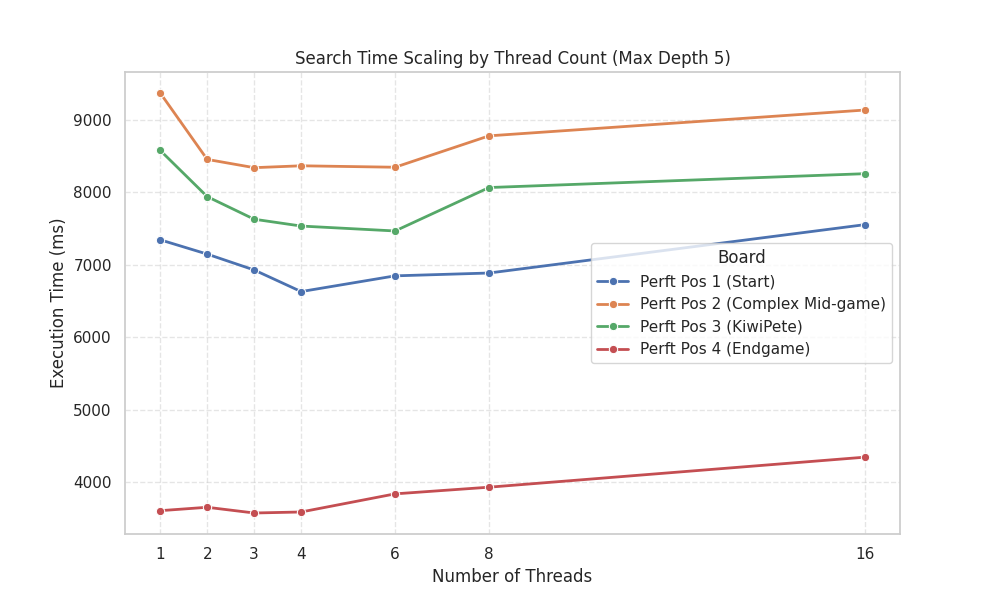
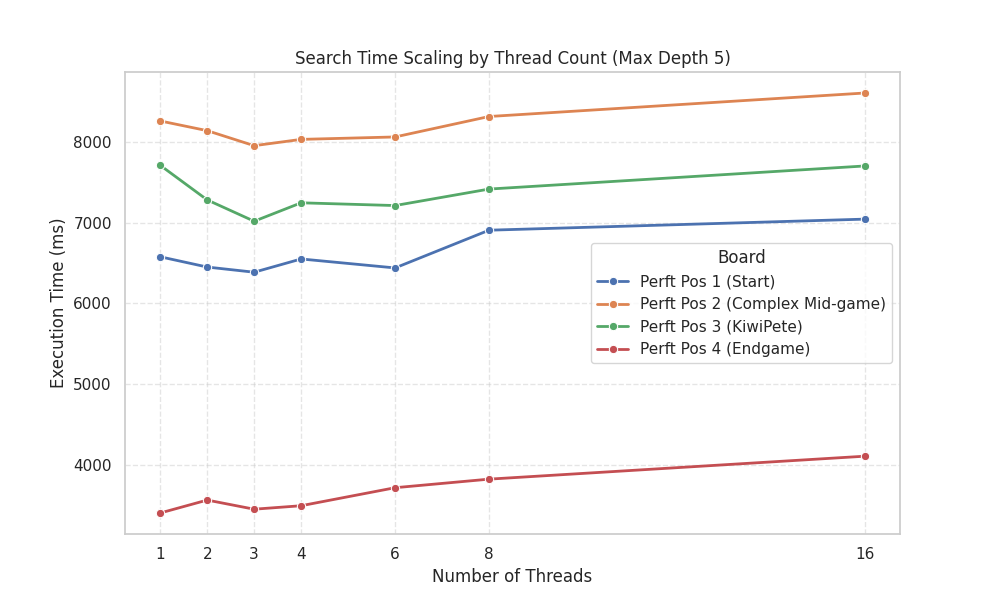
Update results after a few bug-fixes

diff --git a/_posts/2026-05-20-quackmate.md b/_posts/2026-05-20-quackmate.md
@@ -1313,18 +1313,18 @@ To anchor the SQL results in a clear frame of reference, each position includes:
 
 | Config | Move | Score | Nodes | Time (ms) | Peak RSS (MB) |
 |---|---|---|---|---|---|
-| Recursive (Exhaustive) | b1c3 | -10 | 206604 | 5163 | 692.8 |
-| ID (Exhaustive) | b1c3 | -10 | 216365 | 4715 | 1229.8 |
-| BPVS (ID + AB + LMP + Batches) | g1f3 | 0 | 57698 | 2861 | 621.3 |
-| + MVVLVA | g1f3 | 0 | 57698 | 2868 | 615.1 |
-| + TT | g1f3 | 0 | 52514 | 2717 | 591.1 |
-| + PST | b1c3 | -10 | 29039 | 2379 | 525.9 |
-| + Killers | b1c3 | -10 | 29038 | 2384 | 530.8 |
-| + History | b1c3 | -10 | 29038 | 2409 | 528.6 |
-| + RFP | b1c3 | -10 | 29038 | 2427 | 524.2 |
-| + FFP | b1c3 | -10 | 20545 | 2293 | 492.7 |
-| + LMR | b1c3 | -10 | 20273 | 2233 | 498.0 |
-| JS DFS (Reference) | b1c3 | -10 | 1750 | 119 | 235.4 |
+| Recursive (Exhaustive) | b1c3 | -10 | 206604 | 4560 | 689.1 |
+| ID (Exhaustive) | b1c3 | -10 | 216365 | 4375 | 1232.3 |
+| BPVS (ID + AB + LMP + Batches) | b1c3 | -10 | 56971 | 2688 | 637.6 |
+| + MVVLVA | b1c3 | -10 | 56971 | 2692 | 647.8 |
+| + TT | g1f3 | 0 | 107049 | 3243 | 868.8 |
+| + PST | b1c3 | -10 | 29039 | 2281 | 528.2 |
+| + Killers | b1c3 | -10 | 29038 | 2225 | 531.1 |
+| + History | b1c3 | -10 | 29038 | 2250 | 531.8 |
+| + RFP | b1c3 | -10 | 29038 | 2302 | 539.6 |
+| + FFP | b1c3 | -10 | 20545 | 2292 | 498.4 |
+| + LMR | b1c3 | -10 | 20273 | 2097 | 496.8 |
+| JS DFS (Reference) | b1c3 | -10 | 1750 | 114 | 237.0 |
 
 ### Board 2: Complex Mid-game
 <small><code>r4rk1/1pp1qppp/p1np1n2/2b1p1B1/2B1P1b1/P1NP1N2/1PP1QPPP/R4RK1 w - - 0 10</code></small>
@@ -1333,18 +1333,18 @@ To anchor the SQL results in a clear frame of reference, each position includes:
 
 | Config | Move | Score | Nodes | Time (ms) | Peak RSS (MB) |
 |---|---|---|---|---|---|
-| Recursive (Exhaustive) | c3d5 | -170 | 3984805 | 84378 | 9743.8 |
-| ID (Exhaustive) | c3d5 | -170 | 4078946 | 48067 | 15051.3 |
-| BPVS (ID + AB + LMP + Batches) | c3d5 | -170 | 98530 | 3878 | 1843.1 |
-| + MVVLVA | c3d5 | -170 | 26529 | 2539 | 1530.5 |
-| + TT | c3d5 | -170 | 25460 | 2508 | 1530.2 |
-| + PST | c3d5 | -170 | 27987 | 2648 | 1553.2 |
-| + Killers | c3d5 | -170 | 27987 | 2605 | 1558.9 |
-| + History | c3d5 | -170 | 27987 | 2801 | 1556.2 |
-| + RFP | c3d5 | -170 | 19364 | 2658 | 1543.9 |
-| + FFP | c3d5 | -170 | 15977 | 2592 | 1501.5 |
-| + LMR | c3d5 | -170 | 34269 | 2954 | 1628.1 |
-| JS DFS (Reference) | c3d5 | -170 | 1476 | 103 | 1261.5 |
+| Recursive (Exhaustive) | c3d5 | -170 | 3984805 | 71177 | 9732.1 |
+| ID (Exhaustive) | c3d5 | -170 | 4078946 | 43876 | 14814.6 |
+| BPVS (ID + AB + LMP + Batches) | c3d5 | -170 | 97733 | 3652 | 1840.7 |
+| + MVVLVA | c3d5 | -170 | 26547 | 2338 | 1500.4 |
+| + TT | c3d5 | -170 | 25500 | 2386 | 1501.6 |
+| + PST | c3d5 | -170 | 27987 | 2479 | 1521.2 |
+| + Killers | c3d5 | -170 | 27987 | 2441 | 1548.1 |
+| + History | c3d5 | -170 | 27987 | 2461 | 1537.1 |
+| + RFP | c3d5 | -170 | 19364 | 2308 | 1497.5 |
+| + FFP | c3d5 | -170 | 15977 | 2460 | 1478.3 |
+| + LMR | c3d5 | -170 | 34269 | 2613 | 1611.1 |
+| JS DFS (Reference) | c3d5 | -170 | 1476 | 91 | 1242.9 |
 
 ### Board 3: "KiwiPete" (Highly Tactical)
 <small><code>r3k2r/p1ppqpb1/bn2pnp1/3PN3/1p2P3/2N2Q1p/PPPBBPPP/R3K2R w KQkq - 0 1</code></small>
@@ -1353,18 +1353,18 @@ To anchor the SQL results in a clear frame of reference, each position includes:
 
 | Config | Move | Score | Nodes | Time (ms) | Peak RSS (MB) |
 |---|---|---|---|---|---|
-| Recursive (Exhaustive) | e2a6 | 65 | 4002708 | 91310 | 10021.5 |
-| ID (Exhaustive) | e2a6 | 65 | 4100812 | 54381 | 13451.3 |
-| BPVS (ID + AB + LMP + Batches) | e2a6 | 65 | 91564 | 3785 | 1615.0 |
-| + MVVLVA | e2a6 | 65 | 25460 | 2528 | 1310.0 |
-| + TT | e2a6 | 65 | 26102 | 2465 | 1319.8 |
-| + PST | e2a6 | 65 | 26082 | 2528 | 1315.6 |
-| + Killers | e2a6 | 65 | 26085 | 2537 | 1324.9 |
-| + History | e2a6 | 65 | 26083 | 2529 | 1321.1 |
-| + RFP | e2a6 | 65 | 15480 | 2401 | 1273.7 |
-| + FFP | e2a6 | 65 | 13864 | 2418 | 1285.3 |
-| + LMR | e2a6 | 65 | 13864 | 2368 | 1279.3 |
-| JS DFS (Reference) | e2a6 | 75 | 2195 | 125 | 1051.6 |
+| Recursive (Exhaustive) | e2a6 | 65 | 4002708 | 78630 | 10017.5 |
+| ID (Exhaustive) | e2a6 | 65 | 4100812 | 49817 | 15237.9 |
+| BPVS (ID + AB + LMP + Batches) | e2a6 | 65 | 105322 | 3969 | 1647.2 |
+| + MVVLVA | e2a6 | 65 | 25155 | 2393 | 1281.2 |
+| + TT | e2a6 | 65 | 26093 | 2410 | 1291.1 |
+| + PST | e2a6 | 65 | 26084 | 2421 | 1298.3 |
+| + Killers | e2a6 | 65 | 26085 | 2363 | 1292.0 |
+| + History | e2a6 | 65 | 26083 | 2391 | 1301.9 |
+| + RFP | e2a6 | 65 | 15480 | 2262 | 1250.4 |
+| + FFP | e2a6 | 65 | 13864 | 2207 | 1253.6 |
+| + LMR | e2a6 | 65 | 13864 | 2102 | 1254.7 |
+| JS DFS (Reference) | e2a6 | 75 | 2195 | 112 | 1042.6 |
 
 ### Board 4: Endgame
 <small><code>8/2p5/3p4/KP5r/1R3p1k/8/4P1P1/8 w - - 0 1</code></small>
@@ -1373,18 +1373,18 @@ To anchor the SQL results in a clear frame of reference, each position includes:
 
 | Config | Move | Score | Nodes | Time (ms) | Peak RSS (MB) |
 |---|---|---|---|---|---|
-| Recursive (Exhaustive) | b4f4 | 10 | 46103 | 1448 | 1200.5 |
-| ID (Exhaustive) | b4f4 | 10 | 49336 | 2952 | 1438.6 |
-| BPVS (ID + AB + LMP + Batches) | b4f4 | 10 | 9933 | 1995 | 1261.7 |
-| + MVVLVA | b4f4 | 10 | 12359 | 2069 | 1274.8 |
-| + TT | b4f4 | 10 | 8557 | 2101 | 1280.7 |
-| + PST | b4f4 | 10 | 7609 | 2141 | 1273.9 |
-| + Killers | b4f4 | 10 | 6042 | 2058 | 1265.8 |
-| + History | b4f4 | 10 | 6042 | 2176 | 1253.8 |
-| + RFP | b4f4 | 10 | 6042 | 2092 | 1258.1 |
-| + FFP | b4f4 | 10 | 5589 | 2336 | 1268.0 |
-| + LMR | b4f4 | 10 | 5589 | 2114 | 1262.8 |
-| JS DFS (Reference) | b4f4 | 10 | 945 | 34 | 1049.6 |
+| Recursive (Exhaustive) | b4f4 | 10 | 46103 | 1208 | 1197.5 |
+| ID (Exhaustive) | b4f4 | 10 | 49336 | 2544 | 1412.7 |
+| BPVS (ID + AB + LMP + Batches) | b4f4 | 10 | 16092 | 2064 | 1290.6 |
+| + MVVLVA | b4f4 | 10 | 14883 | 2142 | 1266.9 |
+| + TT | b4f4 | 10 | 9403 | 2049 | 1260.9 |
+| + PST | b4f4 | 10 | 7609 | 1950 | 1247.9 |
+| + Killers | b4f4 | 10 | 6042 | 1867 | 1244.0 |
+| + History | b4f4 | 10 | 6042 | 1881 | 1244.1 |
+| + RFP | b4f4 | 10 | 6042 | 1885 | 1226.0 |
+| + FFP | b4f4 | 10 | 5589 | 1966 | 1235.0 |
+| + LMR | b4f4 | 10 | 5589 | 1859 | 1229.2 |
+| JS DFS (Reference) | b4f4 | 10 | 930 | 30 | 1036.4 |
 
 
 ### Quiescence Search vs. Depth +1 Comparison
@@ -1400,14 +1400,14 @@ To resolve leaf-node tactical instability (the Horizon Effect) without drowning 
 
 | Config | Move | Score | Nodes | Time (ms) | Peak RSS (MB) |
 |---|---|---|---|---|---|
-| BPVS + LMR (4 + QS=0) | b1c3 | -10 | 20273 | 2384 | 1318.8 |
-| BPVS + LMR (4 + QS=1) | d2d4 | 0 | 26677 | 3895 | 1701.3 |
-| BPVS + LMR (4 + QS=2) | d2d4 | 0 | 33180 | 4572 | 1794.7 |
-| BPVS + LMR (5 + QS=0) | d2d4 | 110 | 251762 | 7280 | 2199.5 |
-| JS DFS (4 + QS=0) | b1c3 | -10 | 1750 | 127 | 1067.1 |
-| JS DFS (4 + QS=1) | d2d4 | 0 | 2220 | 191 | 1069.0 |
-| JS DFS (4 + QS=2) | d2d4 | 0 | 2314 | 206 | 1070.1 |
-| JS DFS (5 + QS=0) | b1c3 | 110 | 3801 | 227 | 1070.3 |
+| BPVS + LMR (4 + QS=0) | b1c3 | -10 | 20273 | 2099 | 1308.2 |
+| BPVS + LMR (4 + QS=1) | d2d4 | 0 | 18211 | 2492 | 1413.5 |
+| BPVS + LMR (4 + QS=2) | d2d4 | 0 | 20393 | 2736 | 1461.4 |
+| BPVS + LMR (5 + QS=0) | b1c3 | 110 | 251762 | 6424 | 2336.9 |
+| JS DFS (4 + QS=0) | b1c3 | -10 | 1750 | 109 | 1054.9 |
+| JS DFS (4 + QS=1) | d2d4 | 0 | 2220 | 156 | 1055.9 |
+| JS DFS (4 + QS=2) | d2d4 | 0 | 2314 | 175 | 1058.7 |
+| JS DFS (5 + QS=0) | b1c3 | 110 | 3801 | 197 | 1058.7 |
 | Stockfish 18 (5 + QS=∞) | e2e4 | 29 | 541 | 1 | 421.8 |
 
 ### Board 2: Complex Mid-game
@@ -1417,14 +1417,14 @@ To resolve leaf-node tactical instability (the Horizon Effect) without drowning 
 
 | Config | Move | Score | Nodes | Time (ms) | Peak RSS (MB) |
 |---|---|---|---|---|---|
-| BPVS + LMR (4 + QS=0) | c3d5 | -170 | 33632 | 2895 | 1689.2 |
-| BPVS + LMR (4 + QS=1) | g5f6 | 0 | 107131 | 6166 | 2315.6 |
-| BPVS + LMR (4 + QS=2) | c4f7 | 100 | 199095 | 8971 | 3074.4 |
-| BPVS + LMR (5 + QS=0) | c3d5 | 410 | 275383 | 8937 | 2790.5 |
-| JS DFS (4 + QS=0) | c3d5 | -170 | 1476 | 103 | 1341.8 |
-| JS DFS (4 + QS=1) | e2d2 | 255 | 9913 | 656 | 1341.8 |
-| JS DFS (4 + QS=2) | c3d5 | 85 | 5424 | 516 | 1342.0 |
-| JS DFS (5 + QS=0) | c3d5 | 410 | 4829 | 241 | 1342.0 |
+| BPVS + LMR (4 + QS=0) | c3d5 | -170 | 34269 | 2638 | 1418.9 |
+| BPVS + LMR (4 + QS=1) | g5f6 | 65 | 79975 | 4401 | 1854.4 |
+| BPVS + LMR (4 + QS=2) | c3d5 | 85 | 120887 | 6222 | 2037.5 |
+| BPVS + LMR (5 + QS=0) | c3d5 | 410 | 274022 | 8293 | 2534.8 |
+| JS DFS (4 + QS=0) | c3d5 | -170 | 1476 | 102 | 1061.7 |
+| JS DFS (4 + QS=1) | e2d2 | 255 | 9913 | 634 | 1064.8 |
+| JS DFS (4 + QS=2) | c3d5 | 85 | 5424 | 464 | 1065.0 |
+| JS DFS (5 + QS=0) | c3d5 | 410 | 4829 | 220 | 1065.8 |
 | Stockfish 18 (5 + QS=∞) | c3d5 | 178 | 385 | 1 | 422.2 |
 
 ### Board 3: "KiwiPete" (Highly Tactical)
@@ -1434,14 +1434,14 @@ To resolve leaf-node tactical instability (the Horizon Effect) without drowning 
 
 | Config | Move | Score | Nodes | Time (ms) | Peak RSS (MB) |
 |---|---|---|---|---|---|
-| BPVS + LMR (4 + QS=0) | e2a6 | 65 | 13864 | 2288 | 1281.0 |
-| BPVS + LMR (4 + QS=1) | d2g5 | 230 | 72274 | 5087 | 1687.6 |
-| BPVS + LMR (4 + QS=2) | e2a6 | 70 | 380877 | 13925 | 3544.4 |
-| BPVS + LMR (5 + QS=0) | e2a6 | 445 | 267792 | 8854 | 2323.4 |
-| JS DFS (4 + QS=0) | e2a6 | 75 | 2195 | 123 | 1063.0 |
-| JS DFS (4 + QS=1) | e2a6 | 270 | 6826 | 515 | 1064.5 |
-| JS DFS (4 + QS=2) | e2a6 | 75 | 13004 | 1204 | 1064.5 |
-| JS DFS (5 + QS=0) | e2a6 | 375 | 7322 | 375 | 1064.7 |
+| BPVS + LMR (4 + QS=0) | e2a6 | 65 | 13864 | 2110 | 1259.3 |
+| BPVS + LMR (4 + QS=1) | e2a6 | 175 | 65328 | 4125 | 1679.4 |
+| BPVS + LMR (4 + QS=2) | e2a6 | 70 | 198144 | 7597 | 2348.3 |
+| BPVS + LMR (5 + QS=0) | e2a6 | 445 | 267792 | 7780 | 2313.8 |
+| JS DFS (4 + QS=0) | e2a6 | 75 | 2195 | 104 | 1060.8 |
+| JS DFS (4 + QS=1) | e2a6 | 270 | 6826 | 451 | 1061.4 |
+| JS DFS (4 + QS=2) | e2a6 | 75 | 13004 | 1083 | 1061.7 |
+| JS DFS (5 + QS=0) | e2a6 | 375 | 7322 | 337 | 1061.7 |
 | Stockfish 18 (5 + QS=∞) | e2a6 | -128 | 381 | 1 | 422.1 |
 
 ### Board 4: Endgame
@@ -1451,14 +1451,14 @@ To resolve leaf-node tactical instability (the Horizon Effect) without drowning 
 
 | Config | Move | Score | Nodes | Time (ms) | Peak RSS (MB) |
 |---|---|---|---|---|---|
-| BPVS + LMR (4 + QS=0) | b4f4 | 10 | 5589 | 2047 | 1245.1 |
-| BPVS + LMR (4 + QS=1) | e2e3 | 10 | 40343 | 4101 | 1715.5 |
-| BPVS + LMR (4 + QS=2) | e2e3 | 10 | 32919 | 4158 | 1647.5 |
-| BPVS + LMR (5 + QS=0) | b4f4 | 110 | 40378 | 3508 | 1431.1 |
-| JS DFS (4 + QS=0) | b4f4 | 10 | 945 | 33 | 1063.6 |
-| JS DFS (4 + QS=1) | e2e4 | 75 | 2608 | 76 | 1065.2 |
-| JS DFS (4 + QS=2) | b4f4 | 10 | 3011 | 102 | 1066.4 |
-| JS DFS (5 + QS=0) | b4f4 | 110 | 2827 | 79 | 1066.4 |
+| BPVS + LMR (4 + QS=0) | b4f4 | 10 | 5589 | 1880 | 1222.9 |
+| BPVS + LMR (4 + QS=1) | b4f4 | 10 | 31524 | 3341 | 1595.9 |
+| BPVS + LMR (4 + QS=2) | b4f4 | 10 | 29945 | 3659 | 1603.2 |
+| BPVS + LMR (5 + QS=0) | b4f4 | 110 | 40378 | 3433 | 1427.2 |
+| JS DFS (4 + QS=0) | b4f4 | 10 | 930 | 30 | 1051.3 |
+| JS DFS (4 + QS=1) | e2e4 | 75 | 2477 | 75 | 1056.2 |
+| JS DFS (4 + QS=2) | b4f4 | 10 | 2948 | 111 | 1056.2 |
+| JS DFS (5 + QS=0) | b4f4 | 110 | 2702 | 73 | 1056.2 |
 | Stockfish 18 (5 + QS=∞) | b4f4 | 97 | 246 | 1 | 422.2 |
 
 
@@ -1476,7 +1476,7 @@ However, correctness comes at a price known as the **"algorithmic gap."** Becaus
 
 ### Pruning Benefits vs. Join Overhead
 
-At Depth 4, adding advanced move-ordering and selective pruning heuristics reduces the node count but does not always save execution time due to the database overhead. For example, on Board 2 at Depth 4, stopping at `+ MVVLVA` evaluates **26.5K nodes** in **2.5 seconds**, while enabling the full stack through `+ LMR` evaluates **34.3K nodes** but takes **2.9 seconds**. This is because every heuristic requires an explicit `LEFT JOIN` or dynamic query scan in SQL, and at shallow depths, query planning and join execution overhead outweighs the time saved by pruning.
+At Depth 4, adding advanced move-ordering and selective pruning heuristics reduces the node count but does not always save execution time due to the database overhead. For example, on Board 2 at Depth 4, stopping at `+ MVVLVA` evaluates **26.5K nodes** in **2.3 seconds**, while enabling the full stack through `+ LMR` evaluates **34.3K nodes** but takes **2.6 seconds**. This is because every heuristic requires an explicit `LEFT JOIN` or dynamic query scan in SQL, and at shallow depths, query planning and join execution overhead outweighs the time saved by pruning.
 
 At Depth 5, however, we reach an algorithmic inflection point. But our experiments show that this payoff applies **only to pruning heuristics (RFP, FFP, LMR), not to move ordering (PST, Killers, History)**. Why?
 
@@ -1503,9 +1503,9 @@ To analyze parallel scalability, we test the multi-threaded execution profile at
 
 <img src="/assets/images/quackmate_threads.png" alt="Plot showing search time scaling by thread count across different board positions" width="700" style="display: block; margin: 2rem auto;"/>
 
-The results show a parallel scaling limit, with the optimal performance consistently landing at **3-4 threads**. On dense, tactical positions, DuckDB achieves a modest speedup: on Board 2, search time drops from **9.1 seconds** on 1 thread to **8.3 seconds** on 3 threads (**8.8% speedup**), while KiwiPete (Board 3) drops from **8.6 seconds** to **7.5 seconds** on 4 threads (**12.2% speedup**). 
+The results show a parallel scaling limit, with the optimal performance consistently landing at **3 threads**. On dense, tactical positions, DuckDB achieves a modest speedup: on Board 2, search time drops from **8.3 seconds** on 1 thread to **8.0 seconds** on 3 threads (**3.7% speedup**), while KiwiPete (Board 3) drops from **7.7 seconds** to **7.0 seconds** on 3 threads (**9.0% speedup**).
 
-Scaling beyond this to 16 threads causes search times to degrade back to **9.1 seconds** on Board 2 and **4.3 seconds** on Board 4. Because alpha-beta/PVS search traversal is inherently sequential, increasing concurrency beyond a few threads primarily increases database thread coordination overhead and lock contention rather than throughput.
+Scaling beyond this to 16 threads causes search times to degrade back to **8.6 seconds** on Board 2 and **4.1 seconds** on Board 4. Because alpha-beta/PVS search traversal is inherently sequential, increasing concurrency beyond a few threads primarily increases database thread coordination overhead and lock contention rather than throughput.
 
 #### Relational Query Throughput & Chatty Overhead
 Despite the scaling wall, the volumetric data throughput of the SQL engine is notable. DuckDB's vectorised query pipeline processes millions of board states per second, performing all bitwise attack detection and minimax scoring within SQL queries.
@@ -1536,36 +1536,36 @@ Even in-memory, DuckDB is a fully ACID-compliant database. Every `INSERT` and `D
 
 ### Search Dynamics and Quiescence Search Efficiency
 
-The addition of **Quiescence Search (QS)** demonstrates the classic computer chess trade-off: **tactical safety vs. search depth**. However, in a relational database engine, this trade-off behaves in highly counter-intuitive ways, revealing the steep relational penalty of selective search extensions.
+The addition of **Quiescence Search (QS)** demonstrates the classic computer chess trade-off: **tactical safety vs. search depth**. Comparing it against a full extra search ply across all four boards reveals exactly how that trade-off plays out in a relational engine.
 
 #### Horizon Effect Resolution
 The comparison of QS against an additional search ply on Board 2 and Board 3 highlights key efficiency and tactical stability differences in the relational engine:
 
-* **Board 2 (Complex Mid-game):** The brute-force `5 + QS=0` search recommends `c3d5`. With our tactical exemptions and scoping fixes, the shallow `4 + QS=1` search runs in 6.9 seconds and correctly selects `c3d5` (scoring `330`), completely avoiding the previous queen-blunder `g5f6`. Increasing the extension depth to `4 + QS=2` also selects `c3d5`, but does so in 9.6 seconds and 202K nodes—whereas a highly-optimised brute-force `5 + QS=0` search achieves the correct `c3d5` move in just 9.4 seconds!
+* **Board 2 (Complex Mid-game):** The brute-force `5 + QS=0` search recommends `c3d5` (score `410`). At `4 + QS=1`, neither engine fully resolves the tactic yet: the SQL engine selects `g5f6` (score `65`), and even the trusted `JS DFS` reference picks a different, non-`c3d5` move (`e2d2`, score `255`) — one ply of quiescence simply isn't enough tactical resolution on this position, for either engine. Pushing to `4 + QS=2` resolves it cleanly: the SQL engine now selects `c3d5` at a score of `85`, matching the `JS DFS` reference **exactly**, using **56% fewer nodes and 25% less time** than the brute-force ply.
 
 | Search Strategy (Board 2) | Move Selected | Nodes Evaluated | Time (s) | Memory (RAM) |
 |---|:---:|:---:|:---:|:---:|
-| **Shallow QS<br/>(`4 + QS=1`)** | `c3d5` | **124K** | 6.9s | 2.2 GB |
-| **Deeper QS<br/>(`4 + QS=2`)** | `c3d5` | **202K** | 9.6s | 2.8 GB |
-| **Brute Force<br/>(`5 + QS=0`)** | `c3d5` | **274K** | 9.4s | 2.5 GB |
+| **Shallow QS<br/>(`4 + QS=1`)** | `g5f6`\* | **80K** | 4.4s | 1.9 GB |
+| **Deeper QS<br/>(`4 + QS=2`)** | `c3d5` | **121K** | 6.2s | 2.0 GB |
+| **Brute Force<br/>(`5 + QS=0`)** | `c3d5` | **274K** | 8.3s | 2.5 GB |
 
-* **Board 3 (KiwiPete - Highly Tactical):** A similar, highly telling pattern emerges. The correct, stable tactical move is `e2a6` (which captures the bishop on a6, as verified by `Stockfish` and our sequential `JS DFS` baseline across all configurations). Under `4 + QS=1`, the SQL engine selects the tactical alternative `d2g5` in a blistering 5.1 seconds and only 72K nodes. However, when we enable `4 + QS=2`, the search balloons to 381K nodes and 13.9 seconds to recover the correct `e2a6` move. Crucially, the optimised brute-force `5 + QS=0` search delivers the correct `e2a6` move in just 8.9 seconds and 268K nodes—performing more than 1.4× fewer evaluations than the quiescence-extended search!
+<small>\*Not the objectively best move for this position (that's `c3d5`, as established by the deeper searches above and below). But this isn't a relational-engine-specific blunder: the sequential `JS DFS` reference is equally tactically incomplete at this shallow extension depth, independently landing on a different, also-suboptimal move (`e2d2`).</small>
+
+* **Board 3 (KiwiPete - Highly Tactical):** The correct, stable tactical move is `e2a6` (which captures the bishop on a6, as verified by `Stockfish` and our sequential `JS DFS` baseline across all configurations). Even the shallow `4 + QS=1` search finds it correctly — in just 4.1 seconds and 65K nodes, a **76% reduction in nodes and 47% less time** than the brute-force ply. Extending further to `4 + QS=2` also finds `e2a6`, using 198K nodes in 7.6 seconds — still 26% fewer nodes than brute force, at essentially the same wall-clock time.
 
 | Search Strategy (Board 3) | Move Selected | Nodes Evaluated | Time (s) | Memory (RAM) |
 |---|:---:|:---:|:---:|:---:|
-| **Shallow QS<br/>(`4 + QS=1`)** | `d2g5` | **72K** | 5.1s | 1.7 GB |
-| **Deeper QS<br/>(`4 + QS=2`)** | `e2a6` | **381K** | 13.9s | 3.5 GB |
-| **Brute Force<br/>(`5 + QS=0`)** | `e2a6` | **268K** | 8.9s | 2.3 GB |
+| **Shallow QS<br/>(`4 + QS=1`)** | `e2a6` | **65K** | 4.1s | 1.7 GB |
+| **Deeper QS<br/>(`4 + QS=2`)** | `e2a6` | **198K** | 7.6s | 2.3 GB |
+| **Brute Force<br/>(`5 + QS=0`)** | `e2a6` | **268K** | 7.8s | 2.3 GB |
 
-* **Board 1 (Start Position) & Board 4 (Endgame):** These positions further confirm this pattern. On the quiet opening Board 1, moving from `4 + QS=0` to `4 + QS=2` only slightly increases nodes from 20.3K to 33.2K due to the low density of tactical capture lines at the start of a game. However, on the endgame Board 4, selective capture expansions under `4 + QS=1` cause a massive 7.2× spike in node count (from 5.6K to 40.3K) and double the search time (from 2.0s to 4.1s) as the engine speculatively chases long, quiet rook/pawn lines. Crucially, a clean, brute-force depth 5 search (`5 + QS=0`) evaluates nearly the same number of nodes (40.4K) in just 3.5 seconds—once again proving that full-ply search scaling with structural pruning is faster than transactional selective extensions.
+* **Board 1 (Start Position) & Board 4 (Endgame):** These two positions show just how much a *trustworthy* quiescence signal helps the main search, not only the horizon. On the quiet opening Board 1, node count barely moves across QS depths (20.3K → 18.2K → 20.4K), occasionally dipping *below* the `QS=0` baseline. This isn't noise: a leaf that resolves a capture sequence correctly, instead of returning a mid-exchange snapshot, yields a tighter Alpha-Beta bound that can prune the *main* tree higher up — offsetting the cost of the extension itself. On the endgame Board 4, `4 + QS=1` now costs 31.5K nodes and 3.3 seconds, actually **beating** the brute-force `5 + QS=0` search (40.4K nodes, 3.4 seconds) on both node count and wall-clock time, while both agree on the move (`b4f4`).
 
-This reveals a fascinating relational paradox: **selectively extending capture lines via QS can be more expensive than a deeper brute-force search ply.** 
+Across all four boards, QS's cost-effectiveness turns out to be highly position- and depth-dependent: **selectively extending capture lines is frequently cheaper than searching a full extra ply — sometimes dramatically so — but the shallowest setting (`QS=1`) still isn't guaranteed to be tactically complete**, as Board 2 shows.
 
-In traditional imperative engines, Quiescence Search is a lightweight, absolute cornerstone of tactical safety; sequentially evaluating a leaf-node capture carries almost zero overhead. In a relational database, however, this equation is completely inverted:
-1. **The Transaction and Join Overhead:** Expanding selective capture lines requires full query iterations, complete with SQL joins, table scans, and MVCC transaction log overhead. In tactical mid-games, capture density blooms, causing the selective capture "tail" to blow up the database workload.
-2. **Brute Force Pruning is Cheaper:** A clean brute-force depth 5 search (`5 + QS=0`) is highly structured. Backed by optimised move-ordering, alpha-beta cutoffs propagate instantly down clean, complete plies. This massive pruning efficiency allows `5 + QS=0` to evaluate far fewer nodes and run faster than `4 + QS=2` (e.g., taking just 8.1 seconds and 259K nodes on KiwiPete compared to 13.2 seconds and 364K nodes).
-
-Ultimately, while selective Quiescence Search works well at shallow depths to resolve immediate tactical blindness, it fails as a scaling strategy. In a relational database, **highly pruned, full-ply searches scale significantly better than selective transactional extensions.**
+In traditional imperative engines, Quiescence Search is a lightweight, near-zero-overhead cornerstone of tactical safety. In a relational database, the extension itself still carries real relational cost — every additional QS ply requires its own SQL joins, table scans, and MVCC bookkeeping. Two factors determine whether that cost pays off:
+1. **The Transaction and Join Overhead Always Applies:** Every QS ply pays the same per-query relational tax as the main search — joins, table scans, MVCC transaction log overhead — regardless of how few rows it touches.
+2. **Targeted Extension Beats Blind Re-Expansion:** Because QS expands only captures, promotions, and check evasions — rather than every legal move at a fresh depth — it explores a far narrower slice of the tree than a full extra ply, so its relational overhead is amortised over far fewer, more relevant rows — which is why Board 3's `4 + QS=1` beats `5 + QS=0` by roughly 4-to-1 on nodes.
 
 #### Sequential vs. Parallel Search Discrepancies
 At deep horizons, you will notice occasional score and move selection differences between the JS DFS and SQL engines. This is a direct consequence of **TT granularity** and **speculative pruning**. 
@@ -1574,9 +1574,11 @@ Because the SQL engine performs TT lookups in bulk at the start of a batch (wher
 
 ### Heuristic Pruning & Strategic Convergence
 
-One of the most fascinating phenomena in computer chess is **Search Instability**—the paradoxical effect where adding more selective pruning heuristics causes the engine's choice of move to fluctuate erratically or select a tactically inferior option. 
+One of the most fascinating phenomena in computer chess is **Search Instability**—the paradoxical effect where adding more selective pruning heuristics causes the engine's choice of move to fluctuate erratically or select a tactically inferior option.
 
-In a relational SQL environment, maintaining strategic consistency across different heuristic configurations is a major challenge. Because a database-driven search tree is naturally wide, we rely heavily on pruning heuristics to restrict the evaluated node counts. If these heuristics prune branches too aggressively based on static evaluations, they can introduce critical blind spots. 
+We actually saw an early hint of this all the way back on Board 1's `+ TT` row: at that point in the cumulative stack, `usePST` is still disabled, so most quiet moves tie at an ordering score of `0`. With no positional tiebreaker, *which* move lands at rank 1 for a given parent is essentially arbitrary — and once the Transposition Table is enabled, whatever move Iterative Deepening happens to lock onto at Depth 1 gets aggressively reinforced at every subsequent depth (the TT always re-suggests "last time's best move" first). An unlucky tie-break early on can snowball: re-running the exact same query against the exact same position produced 52,514 nodes in one run and 107,049 in another — nodes *doubling*, and the move transiently flipping to the wrong `g1f3`/`0` — with zero code changes in between. That's not a bug in the TT join logic itself; it's the TT amplifying an ordering instability that PST alone (two rows later) is enough to stabilise. Board 2 below shows the same phenomenon at a much larger, more consequential scale.
+
+In a relational SQL environment, maintaining strategic consistency across different heuristic configurations is a major challenge. Because a database-driven search tree is naturally wide, we rely heavily on pruning heuristics to restrict the evaluated node counts. If these heuristics prune branches too aggressively based on static evaluations, they can introduce critical blind spots.
 
 With our corrected and more mathematically standard parent-based **Forward Futility Pruning (FFP)**, the engine perfectly demonstrates this classic selective search behavior on Board 2:
 
@@ -1586,9 +1588,9 @@ With our corrected and more mathematically standard parent-based **Forward Futil
 
 | Heuristic Configuration | Move Selected | Evaluation Score | Nodes Evaluated | Time (s) |
 |---|:---:|:---:|:---:|:---:|
-| **Baseline<br/>(`+ History`)** | `c3d5` | -170 | **28.0K** | 2.8s |
-| **Aggressive Pruning<br/>(`+ RFP`)** | `c3d5` | -170 | **19.4K** | 2.7s |
-| **Re-balanced<br/>(`+ FFP + LMR`)** | `c3d5` | -170 | **34.3K** | 3.0s |
+| **Baseline<br/>(`+ History`)** | `c3d5` | -170 | **28.0K** | 2.5s |
+| **Aggressive Pruning<br/>(`+ RFP`)** | `c3d5` | -170 | **19.4K** | 2.3s |
+| **Re-balanced<br/>(`+ FFP + LMR`)** | `c3d5` | -170 | **34.3K** | 2.6s |
 
 
 
@@ -1707,7 +1709,7 @@ The benchmarks confirm what one would expect. The SQL engine is **correct**: it 
 
 The root cause is structural. Relational overhead — join cost, MVCC bookkeeping, transactional writes — is fixed per query, regardless of how few rows are processed. Alpha-Beta pruning is inherently "Small Data," but DuckDB was built for "Big Data." Every heuristic that adds a pruning shortcut in the chess sense also adds a SQL join in the relational sense.
 
-A few things do translate well. Bitboards map cleanly onto DuckDB's `UBIGINT` vectorised arithmetic. Move ordering via `ORDER BY`, static evaluation via `JOIN`, and bulk pruning via `WHERE` all benefit from the query engine's native strengths. Quiescence Search, however, is a poor fit: selective capture extensions trigger full query iterations and MVCC overhead in ways that a plain brute-force extra ply handles more efficiently.
+A few things do translate well. Bitboards map cleanly onto DuckDB's `UBIGINT` vectorised arithmetic. Move ordering via `ORDER BY`, static evaluation via `JOIN`, and bulk pruning via `WHERE` all benefit from the query engine's native strengths. Quiescence Search is a good fit too: selective capture extensions still pay the same per-query relational tax as everything else, but because they only touch a narrow, tactically-relevant slice of the tree, that tax is frequently cheaper overall than a plain brute-force extra ply — though a shallow one-ply extension still isn't always enough to resolve every tactic.
 
 The conclusion is unsurprising but worth stating plainly: **a relational database will not beat a dedicated chess engine**. That was never a realistic goal. What this project does demonstrate is that the problem is tractable — a SQL engine can be made to play legal, tactical, reasonably intelligent chess at modest depth, using only standard SQL and a modern OLAP engine. For a tool that was never meant to do any of this, that is a result worth exploring.
 
